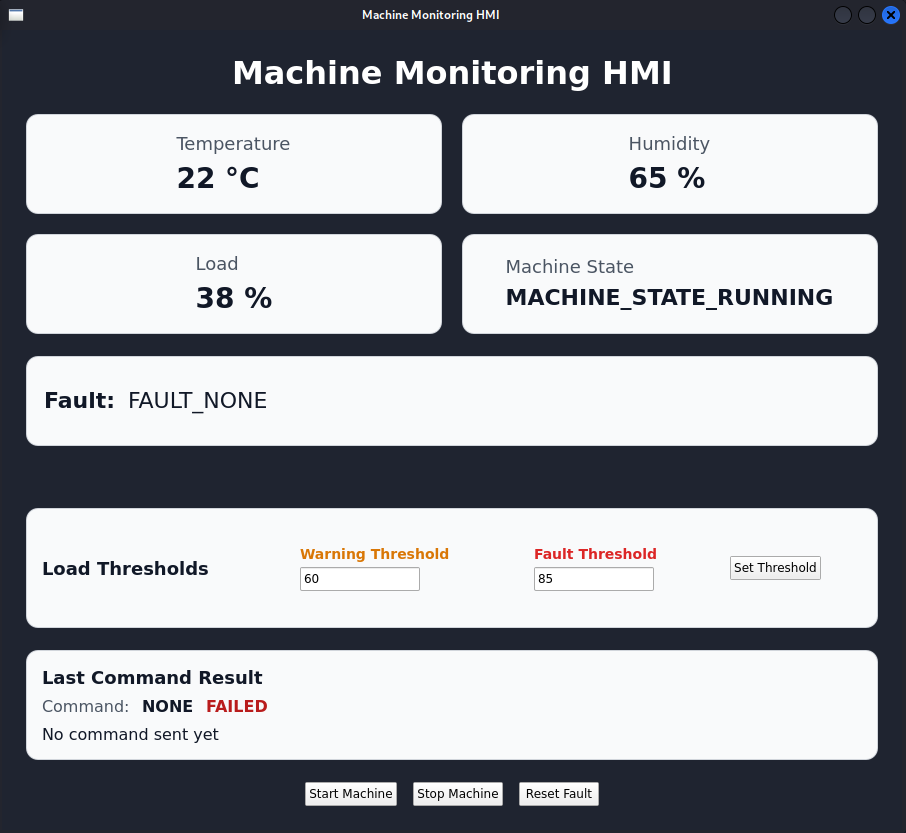
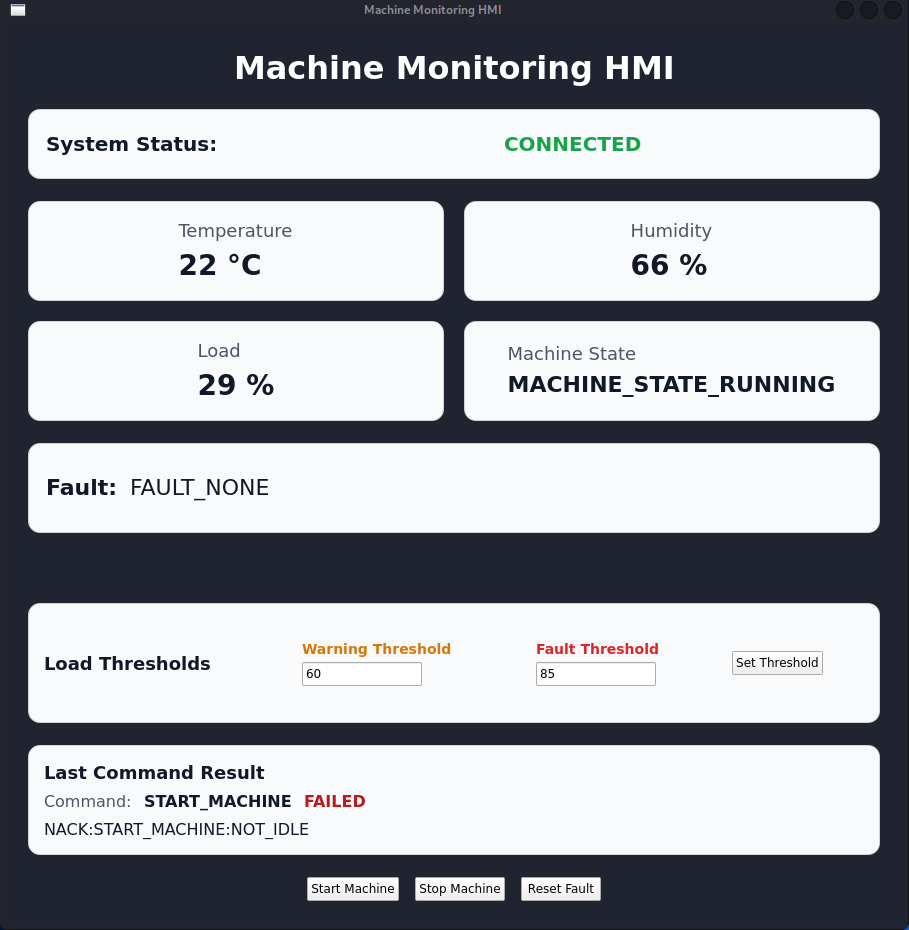
update Readme and screenshot img

diff --git a/README.md b/README.md
@@ -404,14 +404,13 @@ Working features:
 * Start, stop, and reset fault buttons call real ROS2 services
 * Command results are displayed in the GUI
 * Load warning and fault thresholds can be configured from the HMI
+* Connection status display
 
 ## Future Improvements
 
 Planned next steps:
 
-* Add connection status display
 * Show last telemetry update time
-* Add offline detection when Raspberry Pi is not reachable
 * Improve UI layout and styling
 
 ## Example End-to-End Flow